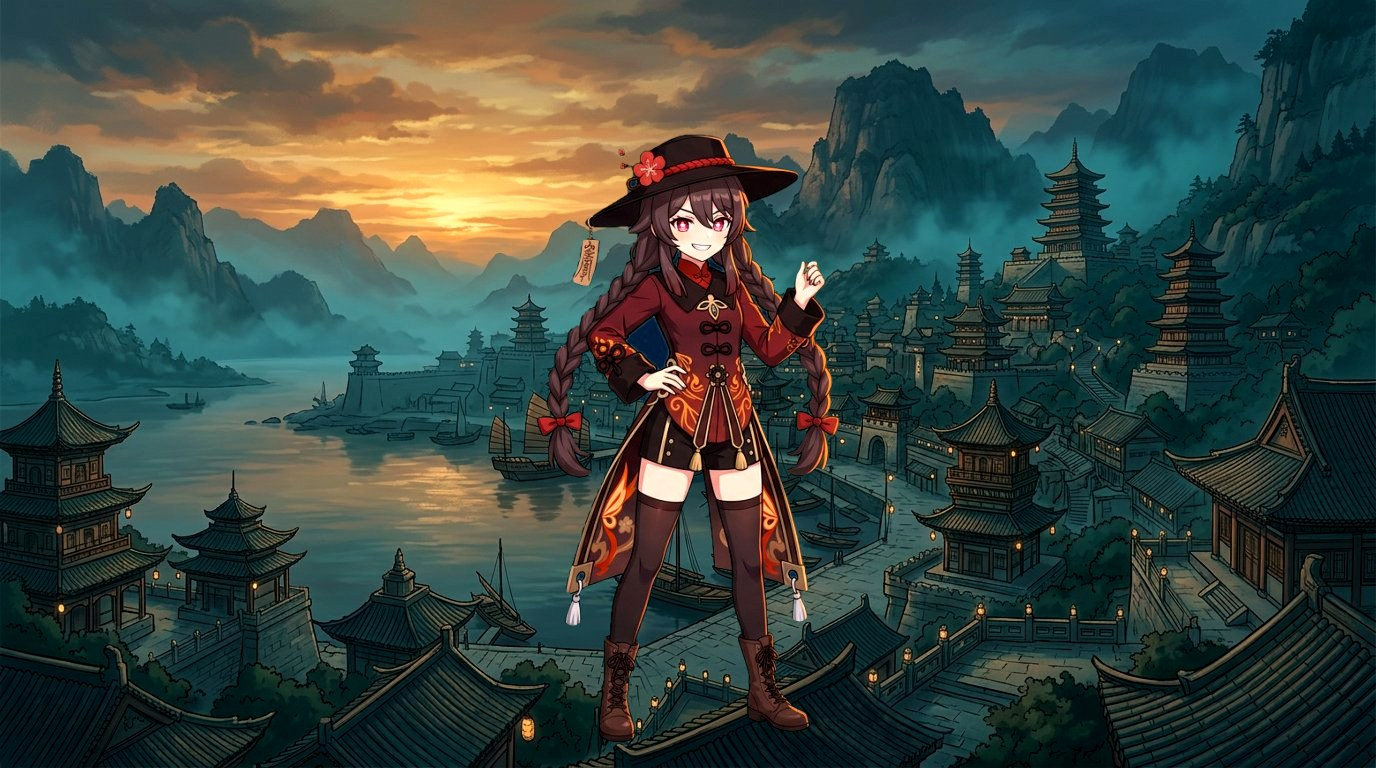
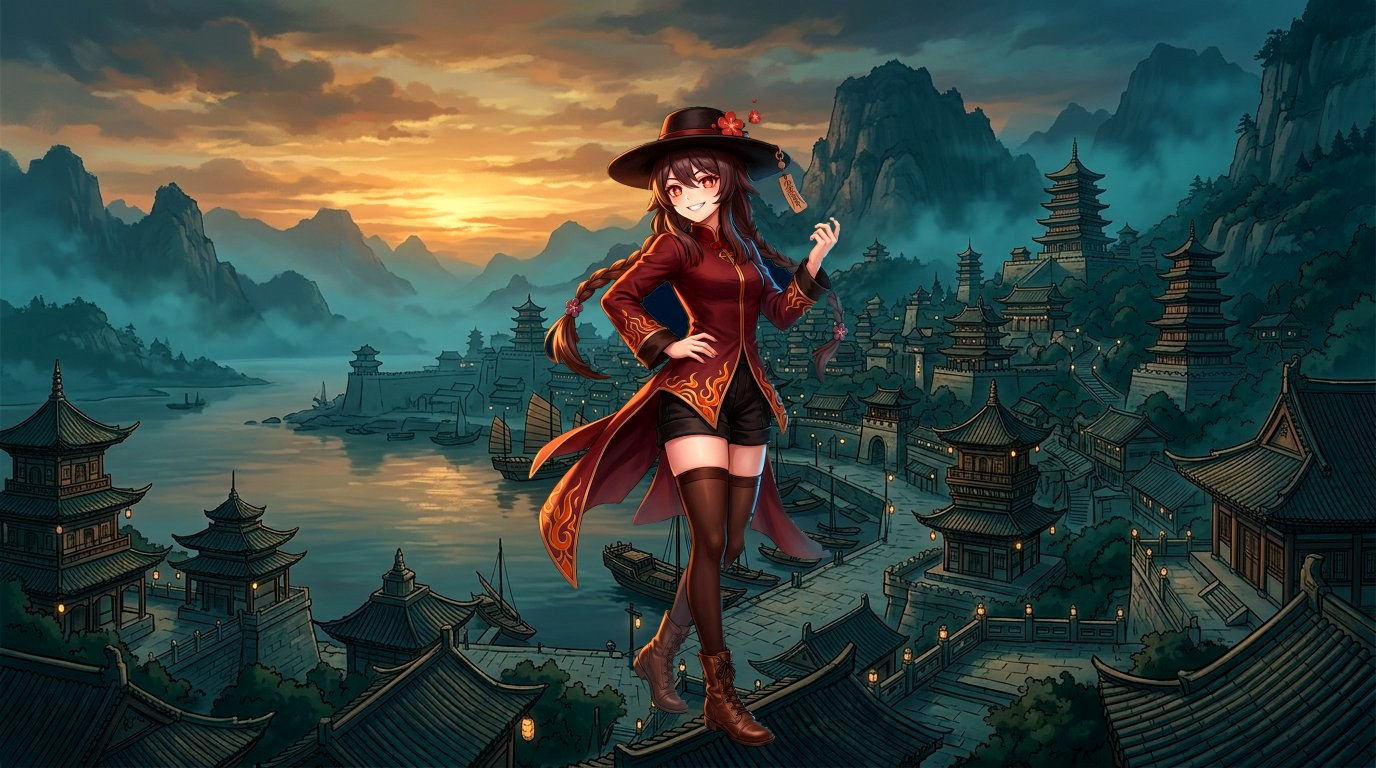
Swap scenery plates to Unsplash CDN URLs with local fallbacks; regenerate character
Each image slot now gets a distinct photograph instead of reusing three
plates across seventeen positions.

Every remote image carries data-fallback pointing at the bundled local
plate, with a capture-phase error listener inline in <head> (resource
load errors do not bubble, and a deferred module registers too late).
Verified: with the CDN unreachable, all 13 remote images fall back and
zero render broken.

The character is regenerated at 639x1270, roughly double the previous
resolution, with painterly shading and a cyan rim light, re-keyed with
the documented chroma-green recipe.

The screen-blended mid layer now crushes its darks via CSS filter first:
a photographic plate carries far more mid-tone than the near-black
particle render it replaced and would otherwise wash the hero out.

Changed region(s): [[0.375, 0.125, 0.625, 0.9688]]

diff --git a/web/index.html b/web/index.html
@@ -7,6 +7,21 @@
 <meta name="description" content="Every cut and edit effect detected in a real TikTok edit, rebuilt as scroll-driven web effects with GSAP ScrollTrigger and Lenis." />
 <link rel="preload" as="image" href="/img/layer-bg.jpg" />
 <link rel="preload" as="image" href="/img/hero-char.png" />
+  <script>
+    /* Remote plates are hotlinked from the Unsplash CDN. If that CDN is
+       unreachable (offline, blocked network, rate limit), silently fall back to
+       the bundled local plate so the page never shows a broken image.
+       Capture phase on window is required: resource load errors do not bubble,
+       and this must be registered before <body> starts parsing. */
+    window.addEventListener('error', function (e) {
+      var t = e.target;
+      if (!t || t.tagName !== 'IMG') return;
+      var fb = t.getAttribute('data-fallback');
+      if (!fb || t.dataset.fellBack) return;
+      t.dataset.fellBack = '1';
+      t.src = fb;
+    }, true);
+  </script>
 </head>
 <body>
 
@@ -29,8 +44,8 @@
   <!-- ============ 1. HERO — parallax depth ============ -->
   <section class="stage" id="hero" data-effect="Parallax depth · 4 layers">
     <div class="layers">
-      <div class="layer" data-depth="0.12"><img src="/img/layer-bg.jpg" alt="" /></div>
-      <div class="layer layer--mid" data-depth="0.34"><img src="/img/layer-mid.jpg" alt="" /></div>
+      <div class="layer" data-depth="0.12"><img src="https://images.unsplash.com/photo-1774050468347-32d2a3a50fb9?auto=format&fit=crop&w=1920&q=80" data-fallback="/img/layer-bg.jpg" alt="" /></div>
+      <div class="layer layer--mid" data-depth="0.34"><img src="https://images.unsplash.com/photo-1707635570751-bfb0c3cedc0b?auto=format&fit=crop&w=1600&q=80" data-fallback="/img/layer-mid.jpg" alt="" /></div>
       <div class="layer layer--char" data-depth="0.62">
         <img src="/img/hero-char.png" alt="Illustrated character, the parallax subject" />
       </div>
@@ -64,8 +79,8 @@
         <p class="note">GSAP ScrollTrigger <code>scrub: 1</code>, one tween per layer, driven off a Lenis-smoothed scroll value.</p>
       </div>
       <div class="exploded" id="exploded">
-        <figure><img src="/img/layer-bg.jpg"  alt="" /><figcaption>bg · 0.12</figcaption></figure>
-        <figure><img src="/img/layer-mid.jpg" alt="" /><figcaption>mid · 0.34</figcaption></figure>
+        <figure><img src="https://images.unsplash.com/photo-1774050468347-32d2a3a50fb9?auto=format&fit=crop&w=900&q=80" data-fallback="/img/layer-bg.jpg" alt="" /><figcaption>bg · 0.12</figcaption></figure>
+        <figure><img src="https://images.unsplash.com/photo-1707635570751-bfb0c3cedc0b?auto=format&fit=crop&w=900&q=80" data-fallback="/img/layer-mid.jpg" alt="" /><figcaption>mid · 0.34</figcaption></figure>
         <figure><img src="/img/hero-char.png" alt="" /><figcaption>subject · 0.62</figcaption></figure>
       </div>
     </div>
@@ -74,8 +89,8 @@
   <!-- ============ 3. BAND REVEAL (the signature effect) ============ -->
   <section class="stage stage--tall" id="band" data-effect="Band reveal · masked subject">
     <div class="band-scene">
-      <div class="band-base"><img src="/img/layer-bg.jpg" alt="" /></div>
-      <div class="band-alt" id="band-alt"><img src="/img/layer-alt.jpg" alt="" /></div>
+      <div class="band-base"><img src="https://images.unsplash.com/photo-1707635572440-2618a3779388?auto=format&fit=crop&w=1920&q=80" data-fallback="/img/layer-bg.jpg" alt="" /></div>
+      <div class="band-alt" id="band-alt"><img src="https://images.unsplash.com/photo-1578147063111-9ffec96050cd?auto=format&fit=crop&w=1920&q=80" data-fallback="/img/layer-alt.jpg" alt="" /></div>
       <div class="band-edge" id="band-edge" aria-hidden="true"></div>
       <div class="band-subject"><img src="/img/hero-char.png" alt="" /></div>
     </div>
@@ -92,9 +107,9 @@
   <!-- ============ 4. WHIP PAN ============ -->
   <section class="panel panel--whip" id="whip" data-effect="Whip pan · motion-blur transition">
     <div class="whip-track" id="whip-track">
-      <article class="whip-card"><img src="/img/layer-bg.jpg" alt="" /><h3>Shot A</h3></article>
-      <article class="whip-card"><img src="/img/layer-mid.jpg" alt="" /><h3>Shot B</h3></article>
-      <article class="whip-card"><img src="/img/layer-alt.jpg" alt="" /><h3>Shot C</h3></article>
+      <article class="whip-card"><img src="https://images.unsplash.com/photo-1773318960462-7db320855064?auto=format&fit=crop&w=1200&q=80" data-fallback="/img/layer-bg.jpg" alt="" /><h3>Shot A</h3></article>
+      <article class="whip-card"><img src="https://images.unsplash.com/photo-1519181245277-cffeb31da2e3?auto=format&fit=crop&w=1200&q=80" data-fallback="/img/layer-mid.jpg" alt="" /><h3>Shot B</h3></article>
+      <article class="whip-card"><img src="https://images.unsplash.com/photo-1626173842682-f5a3e20d4b9c?auto=format&fit=crop&w=1200&q=80" data-fallback="/img/layer-alt.jpg" alt="" /><h3>Shot C</h3></article>
     </div>
     <div class="explain explain--center">
       <p class="tag">03 — Whip pan</p>
@@ -117,7 +132,7 @@
         <p class="note">Two blend layers — <code>multiply</code> teal on the lows, <code>screen</code> amber on the highs — plus contrast and saturation.</p>
       </div>
       <div class="grade-frame" id="grade-frame">
-        <img src="/img/layer-bg.jpg" alt="" class="grade-img" />
+        <img src="https://images.unsplash.com/photo-1502689444867-e9d77b2d4758?auto=format&fit=crop&w=1600&q=80" data-fallback="/img/layer-bg.jpg" alt="" class="grade-img" />
         <div class="grade-lo"></div>
         <div class="grade-hi"></div>
         <div class="grade-label"><span id="grade-val">ungraded</span></div>
@@ -136,9 +151,9 @@
     </div>
     <div class="beatgrid" id="beatgrid" aria-hidden="true"></div>
     <div class="beat-frames" id="beat-frames">
-      <img src="/img/layer-bg.jpg"  alt="" class="is-on" />
-      <img src="/img/layer-mid.jpg" alt="" />
-      <img src="/img/layer-alt.jpg" alt="" />
+      <img src="https://images.unsplash.com/photo-1707635571728-866aec3b33c1?auto=format&fit=crop&w=1400&q=80" data-fallback="/img/layer-bg.jpg"  alt="" class="is-on" />
+      <img src="https://images.unsplash.com/photo-1484402628941-0bb40fc029e7?auto=format&fit=crop&w=1400&q=80" data-fallback="/img/layer-mid.jpg" alt="" />
+      <img src="https://images.unsplash.com/photo-1572940639050-49166eb37404?auto=format&fit=crop&w=1400&q=80" data-fallback="/img/layer-alt.jpg" alt="" />
       <img src="/img/frame-hero.jpg" alt="" />
     </div>
   </section>

diff --git a/web/src/style.css b/web/src/style.css
@@ -175,7 +175,15 @@ code {
 .layer { position: absolute; inset: -8% -4%; will-change: transform; }
 .layer img { width: 100%; height: 100%; object-fit: cover; }
 
-.layer--mid { mix-blend-mode: screen; opacity: .85; }
+/* Screen-blended accent layer. The plate is now a photograph rather than a
+   near-black particle render, and a photo's mid-tones would wash the hero out
+   under `screen`. Crushing the darks first makes the layer behave like a
+   bokeh overlay again: highlights punch through, everything else stays out. */
+.layer--mid {
+  mix-blend-mode: screen;
+  opacity: .6;
+  filter: contrast(1.5) brightness(.8) saturate(1.15);
+}
 
 .layer--char {
   inset: auto 0 -2% 0; height: 92%;

diff --git a/web/README.md b/web/README.md
@@ -41,6 +41,52 @@ pinning these sections depend on.
 | 09 | Beat sync | 100% of cuts within 120 ms of an onset, 177 BPM | scroll position as transport: 32 beats, cut + flash every 4th |
 | 10 | Ken Burns push | sub-1% scale drift per frame | scale on scrub |
 
+## Image assets
+
+The scenery plates are **hotlinked from the Unsplash CDN**. The Unsplash licence
+grants an irrevocable, worldwide right to use the photos free, including
+commercially, with no attribution required; credits are listed below anyway.
+
+Every remote image carries a `data-fallback` attribute pointing at a bundled
+local plate. A capture-phase `error` listener in `<head>` swaps to it if the CDN
+is unreachable, so the page can never show a broken image:
+
+```html
+<img src="https://images.unsplash.com/photo-…" data-fallback="/img/layer-bg.jpg" alt="" />
+```
+
+The listener must be inline in `<head>` and use the capture phase — resource
+load errors do not bubble, and a deferred module would register too late.
+
+17 images total: 13 remote with fallbacks, 4 local (the keyed character cutout,
+used three times, plus the composited beat frame).
+
+### Credits
+
+| Slot | Photo | Photographer |
+| --- | --- | --- |
+| hero background | misty karst mountains above a river | Toxic Smoker |
+| hero mid / bokeh | lights hanging from a tree | Andrew Yu |
+| band base plate | street under red lanterns | Andrew Yu |
+| band swap plate | sun through foggy trees | Pascal Debrunner |
+| whip shot A | jagged misty peaks | Willian Justen de Vasconcellos |
+| whip shot B | red paper lanterns | H&CO |
+| whip shot C | green mountain in fog | Jonathan Mabey |
+| grade demo | crepuscular rays over trees | Artem Sapegin |
+| beat frames | lantern roof / foggy aerial / lanterns at night | Andrew Yu, Neven Krcmarek, Barry |
+
+### The character
+
+Generated placeholder art inspired by Hu Tao, chroma-keyed to a clean alpha
+channel — **not** the official character design. The band reveal requires a
+cutout with real transparency, which no stock photo provides, and HoYoverse's
+fan-content policy permits non-commercial fan use but excludes direct reposting
+of official art. Source plate and the keying recipe: `assets-src/README.md`.
+
+> Hu Tao and Genshin Impact are properties of HoYoverse.
+> © All rights reserved by miHoYo. Other properties belong to their respective owners.
+
+
 ## Notes
 
 - `prefers-reduced-motion: reduce` disables the flash pulses, motion blur and
@@ -51,3 +97,6 @@ pinning these sections depend on.
 - `vite.config.js` sets `allowedHosts: ['.e2b.app', ...]`; without it the
   sandbox preview proxy gets a "Blocked request" response from Vite.
 - Source plate provenance and the chroma-key recipe: `assets-src/README.md`.
+- The `screen`-blended mid layer crushes its darks with a CSS `filter` before
+  blending. A photographic plate carries far more mid-tone than the near-black
+  particle render it replaced, and would otherwise wash the hero out.

diff --git a/web/assets-src/README.md b/web/assets-src/README.md
@@ -14,5 +14,5 @@ Keying recipe used (OpenCV):
 5. Despill: clamp G to `1.06 · (R + B) / 2`
 6. Crop to the alpha bounding box + 12 px padding
 
-Result: 367×711, 43.5% opaque. Generating the subject on black and flood-filling
+Result: 639×1270, 39.0% opaque. Generating the subject on black and flood-filling
 does **not** work — the key leaks through dark hair and clothing.
